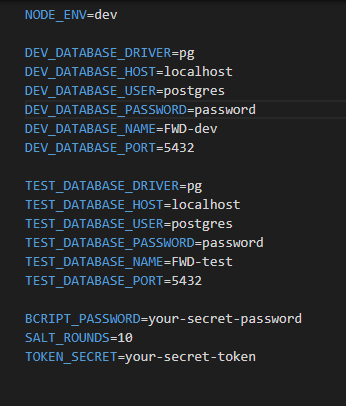
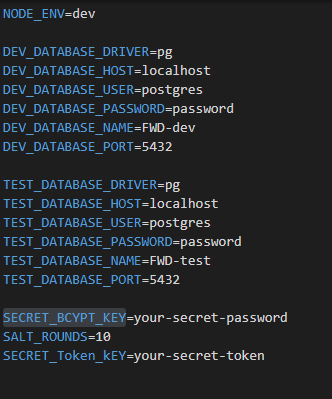
update

diff --git a/src/models/user.model.ts b/src/models/user.model.ts
@@ -5,8 +5,8 @@ import config from "../config";
 import query from "../helper/querybuilder";
 
 const encodePassword = (password: string): string => {
-  const salt = parseInt(config.salt as string, 10);
-  return bcrypt.hashSync(`${password}${config.pepper}`, salt);
+  const saltRound = parseInt(config.salt as string, 10);
+  return bcrypt.hashSync(`${password}${config.pepperKey}`, saltRound);
 };
 
 class UserModel {
@@ -164,7 +164,7 @@ class UserModel {
       }
       const { password: hashPassword } = result.rows[0];
       const isPasswordValid = bcrypt.compareSync(
-        `${password}${config.pepper}`,
+        `${password}${config.pepperKey}`,
         hashPassword
       );
       if (!isPasswordValid) {

diff --git a/src/config.ts b/src/config.ts
@@ -1,7 +1,7 @@
 import dotnv from "dotenv";
 
 dotnv.config();
-const { NODE_ENV, BCRIPT_PASSWORD, SALT_ROUNDS, TOKEN_SECRET, PORT } =
+const { NODE_ENV, SECRET_BCYPT_KEY, SALT_ROUNDS, SECRET_Token_kEY, PORT } =
   process.env;
 
 function env(key: string, defaultValue = ""): string {
@@ -12,7 +12,7 @@ export default {
   env,
   PORT,
   NODE_ENV,
-  pepper: BCRIPT_PASSWORD,
+  pepperKey: SECRET_BCYPT_KEY,
   salt: SALT_ROUNDS,
-  tokenSecret: TOKEN_SECRET,
+  tokenSecretKey: SECRET_Token_kEY,
 };

diff --git a/src/controllers/users.controllers.ts b/src/controllers/users.controllers.ts
@@ -118,7 +118,7 @@ export const loginUser = async (
 
     const user = await userModel.loginUser(email, password);
 
-    const token = jwt.sign({ user }, config.tokenSecret as unknown as string);
+    const token = jwt.sign({ user }, config.tokenSecretKey as unknown as string);
 
     return res.status(200).json({
       status: "success",

diff --git a/src/middleware/authentication.middleware.ts b/src/middleware/authentication.middleware.ts
@@ -21,7 +21,7 @@ const unauthorizedMiddleware = (
       if (token) {
         jwt.verify(
           token,
-          config.tokenSecret as unknown as string,
+          config.tokenSecretKey as unknown as string,
           async (err, decode) => {
             if (!err) {
               const decoded = decode as JwtPayload;
